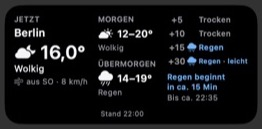
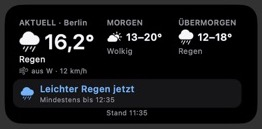
Fix rain detection and simplify forecast layout

Changed region(s): [[0.0305, 0.124, 0.9466, 0.9302], [0.6107, 0.5581, 0.916, 0.8372], [0.8855, 0.6202, 0.916, 0.6822]]

diff --git a/wetter-widget.js b/wetter-widget.js
@@ -1,14 +1,13 @@
-// RegenWidget 3.0 — mittleres, schwarzes Scriptable-Widget.
+// WetterWidget 4.0 — mittleres, schwarzes Scriptable-Widget.
 // Daten: DWD-RV, Stationsmessungen und amtliche Gebietswarnungen via Bright Sky.
 // Niederschlagsart und lokales Glätterisiko sind Näherungen; im Widget werden
 // bewusst keine Datenanbieter eingeblendet.
 // Einmal in Scriptable starten und Standort erlauben. Komplett ersetzen.
 const SETTINGS = {
   apiBase: "https://api.brightsky.dev",
-  minutes: [5, 10, 15, 30],
-  rainThreshold: 2, // 0,02 mm/5 Minuten; darunter "trocken"
+  rainThreshold: 1, // 0,01 mm/5 Minuten: auch sehr leichter Regen zählt
   radarMaxAge: 20, // Minuten seit DWD-Modelllauf, nicht seit Download
-  weatherMaxAge: 90,
+  weatherMaxAge: 40,
   forecastMaxAge: 360,
   alertsMaxAge: 30,
 };
@@ -100,7 +99,8 @@ function weatherData(payload, now) {
     (payload.json.sources || []).find(s => String(s.id) === String(w.source_id)) || null;
   return { at: at, temperature: number(w.temperature), humidity: number(w.relative_humidity),
     wind: number(w.wind_speed_10), direction: number(w.wind_direction_10), gust: number(w.wind_gust_speed_10),
-    recent: number(w.precipitation_60), icon: w.icon, condition: w.condition,
+    recent10: number(w.precipitation_10), recent: number(w.precipitation_60),
+    icon: w.icon, condition: w.condition,
     station: source && source.station_name || null,
     stationDistance: source && number(source.distance),
     cached: payload.cached };
@@ -165,6 +165,10 @@ function frameAt(frames, at) {
   return frames.find(f => f.at >= at && f.at - at < 5 * MIN) || null;
 }
 function wet(f) { return !!f && f.value != null && f.value >= SETTINGS.rainThreshold; }
+function stationWet(w) {
+  return !!w && (/^(rain|sleet|snow|hail|thunderstorm)$/.test(String(w.condition || "")) ||
+    !w.condition && w.recent10 != null && w.recent10 > 0);
+}
 function strength(f) {
   if (!f || f.value == null) return "keine Daten";
   const rate = f.value * 0.12;
@@ -206,15 +210,16 @@ function windLabel(w, compact) {
 function currentLabel(w, current) {
   if (wet(current)) return type(current, w).name + " · " + strength(current);
   if (!w) return current && current.value != null ? "Jetzt trocken" : "Wetterdaten fehlen";
-  // A dry radar pixel does not imply sunshine.
+  // An explicit DWD precipitation report takes priority over a generic cloud icon.
   return weatherLabel(w.icon, w.condition, true);
 }
-function weatherLabel(icon, condition, station) {
+function weatherLabel(icon, condition) {
   const labels = { "clear-day": "Sonnig", "clear-night": "Klar", "partly-cloudy-day": "Wolkig",
     "partly-cloudy-night": "Wolkig", cloudy: "Bedeckt", fog: "Nebel", wind: "Windig",
     thunderstorm: "Gewitter", rain: "Regen", sleet: "Regen/Schnee", snow: "Schnee", hail: "Hagel" };
-  const label = labels[icon] || (condition === "dry" ? "Trocken" : "Wetter unklar");
-  return station && /^(Regen|Regen\/Schnee|Schnee)$/.test(label) ? label + " (Station)" : label;
+  const precipitation = /^(rain|sleet|snow|hail|thunderstorm)$/;
+  const key = precipitation.test(String(condition || "")) ? condition : icon;
+  return labels[key] || (condition === "dry" ? "Trocken" : "Wetter unklar");
 }
 function eventText(frames, w, now) {
   const current = frameAt(frames, now);
@@ -252,18 +257,24 @@ function eventText(frames, w, now) {
   }
   return sentence;
 }
-function durationLine(summary) {
-  let match = summary.match(/mindestens bis (\d{2}:\d{2})/);
-  if (match) return "Mind. bis " + match[1];
-  match = summary.match(/bis(?: ca\.)? (\d{2}:\d{2})(?:$|\s)/);
-  if (match) return "Bis ca. " + match[1];
-  return /Ende offen/.test(summary) ? "Ende noch offen" : "";
+function precipitationPhrase(frame, w) {
+  const phase = type(frame, w).name;
+  const level = strength(frame);
+  const adjective = level === "stark" ? "Starker" : level === "mäßig" ? "Mäßiger" : "Leichter";
+  if (phase === "Schnee") return adjective + " Schneefall";
+  if (phase === "Regen/Schnee") return adjective + " Schneeregen";
+  if (phase === "Niederschl.") return adjective + " Niederschlag";
+  return adjective + " Regen";
 }
-function changeText(frames, w, now, officialIce) {
-  if (officialIce === true || officialIce && officialIce.now)
-    return { text: "Amtliche Glättewarnung aktiv", color: COLORS.warning, important: true };
-  if (officialIce && officialIce.soon)
-    return { text: "Glättewarnung ab " + clock(officialIce.soon.from), color: COLORS.warning, important: true };
+function precipitationNotice(frames, w, now, officialIce) {
+  if (officialIce && officialIce.now)
+    return { title: "Amtliche Glättewarnung aktiv", detail: "Bitte mit glatten Wegen rechnen",
+      symbol: "exclamationmark.triangle.fill", color: COLORS.warning };
+  if (officialIce && officialIce.soon) {
+    const mins = Math.max(5, Math.ceil((officialIce.soon.from - now) / (5 * MIN)) * 5);
+    return { title: "Glättewarnung in ca. " + mins + " Min", detail: "Amtliche Gebietswarnung",
+      symbol: "exclamationmark.triangle.fill", color: COLORS.warning };
+  }
   const current = frameAt(frames, now);
   const timeline = [];
   for (let n = 0; n <= 120; n += 5) {
@@ -271,29 +282,42 @@ function changeText(frames, w, now, officialIce) {
     if (!f || f.value == null) break;
     timeline.push(f);
   }
-  if (!timeline.length) return { text: "Prognose derzeit nicht verfügbar", color: COLORS.muted, important: false };
-  const firstWet = timeline.findIndex(wet);
-  if (!wet(current)) {
-    if (firstWet >= 0 && timeline[firstWet].at <= now + 35 * MIN) {
-      const mins = Math.max(0, Math.round((timeline[firstWet].at - 5 * MIN - now) / MIN / 5) * 5);
-      return { text: type(timeline[firstWet], w).name + " beginnt in ca. " + mins + " Min",
-        color: type(timeline[firstWet], w).color, important: true };
-    }
-    return { text: "Bleibt voraussichtlich\ntrocken", color: COLORS.muted, important: false };
+  if (!timeline.length)
+    return { title: "Niederschlagsprognose fehlt", detail: "Später erneut versuchen",
+      symbol: "questionmark.circle", color: COLORS.muted };
+  const firstWet = timeline.findIndex(f => wet(f) && f.at - 5 * MIN <= now + 30 * MIN);
+  if (firstWet < 0 && stationWet(w)) {
+    const phase = type({ value: SETTINGS.rainThreshold }, w);
+    return { title: weatherLabel(w.icon, w.condition) + " jetzt",
+      detail: "Ende derzeit nicht sicher bestimmbar", symbol: phase.symbol, color: phase.color };
   }
-  const stronger = timeline.find(f => f.at <= now + 30 * MIN && wet(f) && f.value > current.value * 1.8 &&
-    strength(f) !== strength(current));
-  if (stronger) return { text: "Wird in ca. " + Math.max(5,
-    Math.round((stronger.at - now) / MIN / 5) * 5) + " Min stärker", color: type(stronger, w).color, important: true };
-  for (let i = 1; i + 1 < timeline.length; i++) {
+  if (firstWet < 0 && iceRisk(w, false))
+    return { title: "Örtliches Glätterisiko", detail: "Frost und Feuchtigkeit möglich",
+      symbol: "snowflake", color: COLORS.warning };
+  if (firstWet < 0)
+    return { title: "Nächste 30 Min trocken", detail: "Kein Regen oder Schnee erwartet",
+      symbol: "cloud.fill", color: COLORS.muted };
+  const first = timeline[firstWet];
+  let end = null;
+  for (let i = firstWet + 1; i + 1 < timeline.length; i++) {
     if (!wet(timeline[i]) && !wet(timeline[i + 1])) {
-      const end = timeline[i].at - 5 * MIN;
-      if (end <= now + 30 * MIN)
-        return { text: "Lässt gegen " + clock(end) + " nach", color: type(current, w).color, important: true };
+      end = timeline[i].at - 5 * MIN;
       break;
     }
   }
-  return { text: eventText(frames, w, now), color: COLORS.muted, important: false };
+  const last = timeline[timeline.length - 1].at;
+  const phase = type(first, w);
+  const isCurrent = wet(current) || stationWet(w);
+  const start = first.at - 5 * MIN;
+  const delay = Math.max(5, Math.ceil(Math.max(0, start - now) / (5 * MIN)) * 5);
+  const title = precipitationPhrase(first, w) + (isCurrent ? " jetzt" : " in ca. " + delay + " Min");
+  let detail = end ? "Voraussichtlich bis " + clock(end) : "Mindestens bis " + clock(last);
+  let color = phase.color;
+  if (iceRisk(w, true) && phase.name === "Regen") {
+    detail = "Glätterisiko · " + detail.toLowerCase();
+    color = COLORS.warning;
+  }
+  return { title: title, detail: detail, symbol: phase.symbol, color: color };
 }
 function model(radar, w, alerts, now) {
   // Backwards-compatible call form used by older copies of the local tests.
@@ -306,19 +330,10 @@ function model(radar, w, alerts, now) {
   const warningNow = warnings.find(a => activeAt(a, now)) || null;
   const warningSoon = warnings.find(a => Number.isFinite(a.from) && a.from > now && a.from <= now + 30 * MIN) || null;
   const current = frameAt(radar.frames, now);
-  const checks = SETTINGS.minutes.map(minutes => {
-    const at = now + minutes * MIN;
-    const f = frameAt(radar.frames, at);
-    const moisture = radar.frames.some(p => p.at >= now - 5 * MIN && p.at <= at && wet(p));
-    const officialIce = warnings.some(a => activeAt(a, at));
-    return { minutes: minutes, at: at, type: type(f, w), strength: strength(f),
-      ice: officialIce || iceRisk(w, moisture), officialIce: officialIce, frame: f };
-  });
   const summary = eventText(radar.frames, w, now);
-  return { current: current, checks: checks, label: currentLabel(w, current),
-    summary: summary, duration: durationLine(summary),
-    change: changeText(radar.frames, w, now, { now: warningNow, soon: warningSoon }),
-    officialIce: !!(warningNow || warningSoon), ice: checks.some(c => c.ice) || iceRisk(w, wet(current)) };
+  return { current: current, label: currentLabel(w, current), summary: summary,
+    notice: precipitationNotice(radar.frames, w, now, { now: warningNow, soon: warningSoon }),
+    officialIce: !!(warningNow || warningSoon), ice: iceRisk(w, wet(current)) };
 }
 
 function text(parent, value, size, color, bold, lines) {
@@ -347,6 +362,8 @@ function centeredIcon(parent, name, color) {
 }
 function currentSymbol(w, current) {
   if (wet(current)) return type(current, w).symbol;
+  if (w && /^(rain|sleet|snow|hail|thunderstorm)$/.test(String(w.condition || "")))
+    return weatherSymbol(w.condition);
   return weatherSymbol(w && w.icon);
 }
 function weatherSymbol(icon) {
@@ -366,7 +383,7 @@ function detailsURL() {
 function dailyBlock(parent, title, forecast) {
   const block = parent.addStack();
   block.layoutVertically();
-  block.size = new Size(82, 0);
+  block.size = new Size(84, 0);
   text(block, title, 10, COLORS.muted, true);
   block.addSpacer(2);
   const values = block.addStack();
@@ -380,39 +397,35 @@ function dailyBlock(parent, title, forecast) {
     ? Math.round(forecast.low) + "–" + Math.round(forecast.high) + "°" : "—°";
   text(values, temperatures, 13, COLORS.text, true);
   block.addSpacer(2);
-  const label = text(block, forecast ? weatherLabel(forecast.icon, forecast.condition, false) : "Keine Daten",
+  const label = text(block, forecast ? weatherLabel(forecast.icon, forecast.condition) : "Keine Daten",
     10, COLORS.muted, false);
   label.minimumScaleFactor = 0.65;
 }
 function buildWidget(loc, w, tomorrow, dayAfter, radar, m, now) {
   const widget = new ListWidget();
   widget.backgroundColor = Color.black();
-  // Optische Zentrierung: Die große linke Aktuell-Spalte wirkt schwerer.
-  widget.setPadding(20, 16, 16, 16);
+  widget.setPadding(14, 16, 7, 16);
   widget.url = detailsURL();
   widget.refreshAfterDate = new Date(now + 5 * MIN);
-  const outer = widget.addStack();
-  outer.addSpacer();
-  const body = outer.addStack();
-  outer.addSpacer();
-  const left = body.addStack();
+  const top = widget.addStack();
+  top.addSpacer();
+  const left = top.addStack();
   left.layoutVertically();
-  left.size = new Size(101, 0);
-  text(left, loc.cached ? "LETZTER ORT" : "JETZT", 10, COLORS.muted, true);
+  left.size = new Size(105, 0);
+  const currentTitle = text(left, "AKTUELL · " + (loc.name || coordinates(loc)), 10, COLORS.muted, true);
+  currentTitle.minimumScaleFactor = 0.6;
   left.addSpacer(2);
-  text(left, loc.name || coordinates(loc), 14, null, true);
-  left.addSpacer(3);
   const conditions = left.addStack();
   conditions.centerAlignContent();
   const currentSF = SFSymbol.named(currentSymbol(w, m.current)) || SFSymbol.named("questionmark.circle");
   const currentImage = conditions.addImage(currentSF.image);
-  currentImage.imageSize = new Size(28, 28);
+  currentImage.imageSize = new Size(27, 27);
   currentImage.tintColor = new Color(COLORS.text);
   conditions.addSpacer(6);
   text(conditions, w && w.temperature != null ? w.temperature.toFixed(1).replace(".", ",") + "°" : "—°",
-    28, null, true);
-  text(left, m.label, 12, COLORS.text, false, 1);
-  left.addSpacer(3);
+    27, null, true);
+  text(left, m.label, 11, COLORS.text, false, 1);
+  left.addSpacer(2);
   const wind = left.addStack();
   wind.centerAlignContent();
   const windSF = SFSymbol.named("wind") || SFSymbol.named("arrow.right");
@@ -420,57 +433,34 @@ function buildWidget(loc, w, tomorrow, dayAfter, radar, m, now) {
   windImage.imageSize = new Size(12, 12);
   windImage.tintColor = new Color(COLORS.muted);
   wind.addSpacer(4);
-  text(wind, windLabel(w, true), 10, COLORS.muted, false, 1);
-  body.addSpacer(8);
-  const middle = body.addStack();
-  middle.layoutVertically();
-  middle.size = new Size(82, 0);
-  dailyBlock(middle, "MORGEN", tomorrow);
-  middle.addSpacer(8);
-  dailyBlock(middle, "ÜBERMORGEN", dayAfter);
-  body.addSpacer(8);
-  const right = body.addStack();
-  right.layoutVertically();
-  right.size = new Size(105, 0);
-  m.checks.forEach((c, i) => {
-    const row = right.addStack();
-    row.centerAlignContent();
-    const time = row.addStack();
-    time.size = new Size(26, 0);
-    text(time, "+" + c.minutes, 11, COLORS.muted, true);
-    const shown = c.ice
-      ? { name: "Glätte", symbol: "exclamationmark.triangle.fill", color: COLORS.warning }
-      : c.type;
-    if (shown.name === "Trocken") {
-      row.addSpacer(12);
-    } else {
-      const sf = SFSymbol.named(shown.symbol) || SFSymbol.named("questionmark");
-      const icon = row.addImage(sf.image);
-      icon.imageSize = new Size(12, 12);
-      icon.tintColor = new Color(shown.color);
-    }
-    row.addSpacer(3);
-    const extra = shown.name === "Regen/Schnee" || c.ice ? "" : c.strength;
-    const label = text(row, shown.name + (extra && extra !== "keine Daten" ? " · " + extra : ""),
-      10, shown.color, true);
-    label.minimumScaleFactor = 0.65;
-    if (i < 3) right.addSpacer(4);
-  });
-  right.addSpacer(7);
-  const changeLines = m.change.text.split("\n");
-  if (changeLines.length === 2) {
-    text(right, changeLines[0], 10, m.change.color, m.change.important, 1);
-    text(right, changeLines[1], 10, m.change.color, m.change.important, 1);
-  } else {
-    text(right, m.change.text, 11, m.change.color, m.change.important, 2);
-  }
-  if (m.change.important && m.duration && !m.change.text.startsWith("Lässt")) {
-    right.addSpacer(1);
-    text(right, m.duration, 10, COLORS.muted, false, 1);
-  }
-  widget.addSpacer();
+  text(wind, windLabel(w, true), 9, COLORS.muted, false, 1);
+  top.addSpacer(9);
+  dailyBlock(top, "MORGEN", tomorrow);
+  top.addSpacer(9);
+  dailyBlock(top, "ÜBERMORGEN", dayAfter);
+  top.addSpacer();
+
+  widget.addSpacer(5);
+  const notice = widget.addStack();
+  notice.backgroundColor = new Color("161618");
+  notice.cornerRadius = 10;
+  notice.setPadding(5, 10, 5, 10);
+  notice.centerAlignContent();
+  const noticeSF = SFSymbol.named(m.notice.symbol) || SFSymbol.named("questionmark.circle");
+  const noticeIcon = notice.addImage(noticeSF.image);
+  noticeIcon.imageSize = new Size(17, 17);
+  noticeIcon.tintColor = new Color(m.notice.color);
+  notice.addSpacer(8);
+  const noticeText = notice.addStack();
+  noticeText.layoutVertically();
+  text(noticeText, m.notice.title, 12, m.notice.color, true, 1);
+  noticeText.addSpacer(1);
+  text(noticeText, m.notice.detail, 9, COLORS.muted, false, 1);
+  notice.addSpacer();
+
+  widget.addSpacer(2);
   const bottom = widget.addStack();
-  bottom.size = new Size(0, 12);
+  bottom.size = new Size(0, 9);
   bottom.centerAlignContent();
   bottom.addSpacer();
   const dataAt = radar.run != null ? radar.run : w && w.at;

diff --git a/README.md b/README.md
@@ -2,7 +2,7 @@
 
 Ein kompaktes, mittleres iOS-Widget für [Scriptable](https://scriptable.app/).
 Es zeigt das aktuelle Wetter, die Aussichten für morgen und übermorgen sowie
-Regen, Schnee oder Glätterisiko in den nächsten 5, 10, 15 und 30 Minuten.
+eine klare Regen-, Schnee- oder Glätteinformation für die nächsten 30 Minuten.
 
 ## Screenshot
 
@@ -12,11 +12,13 @@ Echte Scriptable-Vorschau mit dem Beispielstandort Berlin:
 
 ## Anzeige
 
-- **Links:** Ort, aktueller Wetterzustand, Temperatur und Windrichtung.
-- **Mitte:** Wetter und Tiefst-/Höchsttemperatur für morgen und übermorgen.
-- **Rechts:** kurzfristige Entwicklung in 5-Minuten-Schritten sowie Beginn,
-  Stärke und voraussichtliches Ende von Niederschlag.
-- **Unten:** Zeitpunkt der letzten Berechnung.
+- **Oben links:** „Aktuell“ und Ort, Wetterzustand, Temperatur und Windrichtung.
+- **Oben mittig:** Wetter und Tiefst-/Höchsttemperatur für morgen.
+- **Oben rechts:** Wetter und Tiefst-/Höchsttemperatur für übermorgen.
+- **Darunter:** ein Klartext-Hinweis, ob und in wie vielen Minuten Regen oder
+  Schnee beginnt und bis wann er voraussichtlich anhält. Der Beginn wird im
+  5-Minuten-Raster angegeben.
+- **Ganz unten:** Stand der verwendeten Wetterdaten.
 
 ## Installation
 
@@ -39,3 +41,7 @@ Server erforderlich.
 Die Koordinaten werden für die Wetterabfragen an Bright Sky übermittelt. Die
 angezeigte Niederschlagsart und das örtliche Glätterisiko sind Näherungen und
 keine Garantie für den Zustand einer bestimmten Straße.
+
+Bereits die kleinste vom Radar gemeldete Niederschlagsmenge von 0,01 mm je
+5 Minuten wird als leichter Regen erkannt. Eine ausdrückliche aktuelle
+DWD-Stationsmeldung wie „Regen“ hat Vorrang vor einem allgemeinen Wolkensymbol.
